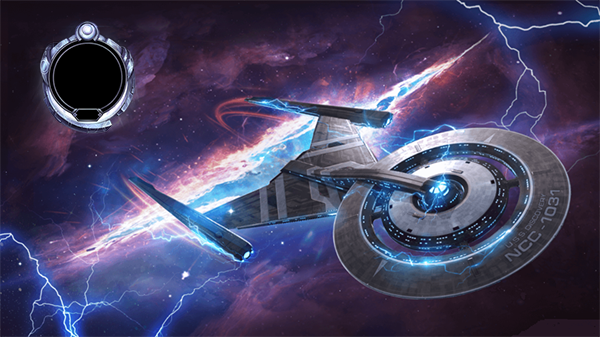
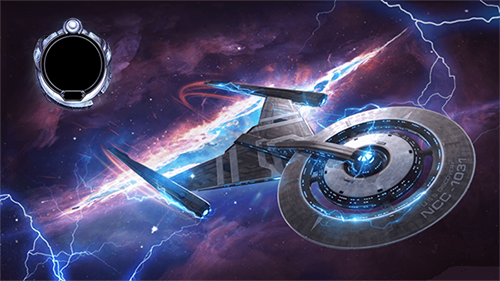
Size

diff --git a/features/welcome.js b/features/welcome.js
@@ -17,7 +17,7 @@ module.exports = (client) => {
       return
     }
 
-    const canvas = Canvas.createCanvas(600, 337)
+    const canvas = Canvas.createCanvas(500, 281)
     const ctx = canvas.getContext('2d')
 
     const background = await Canvas.loadImage(
